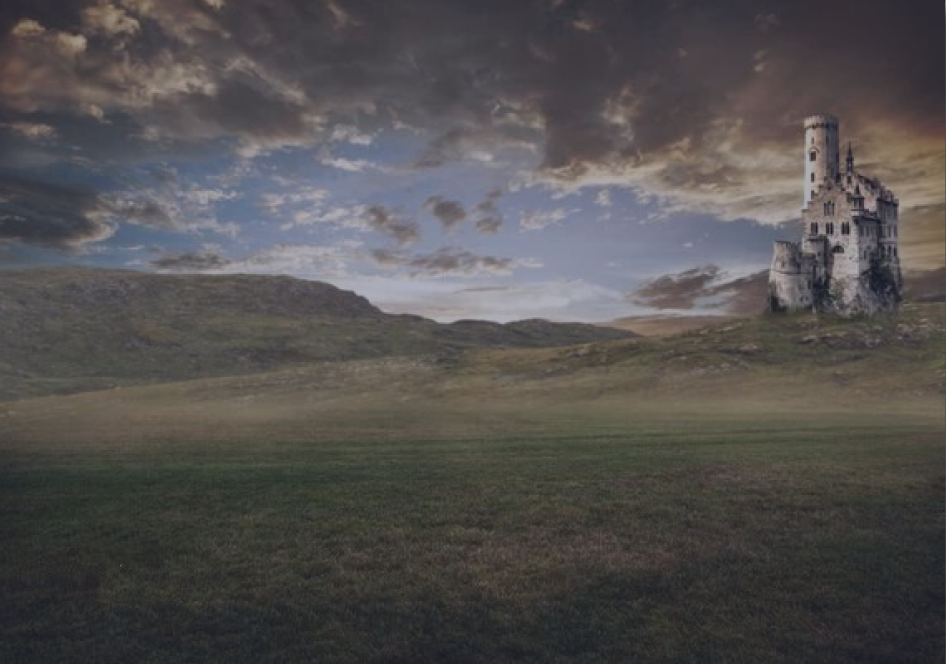
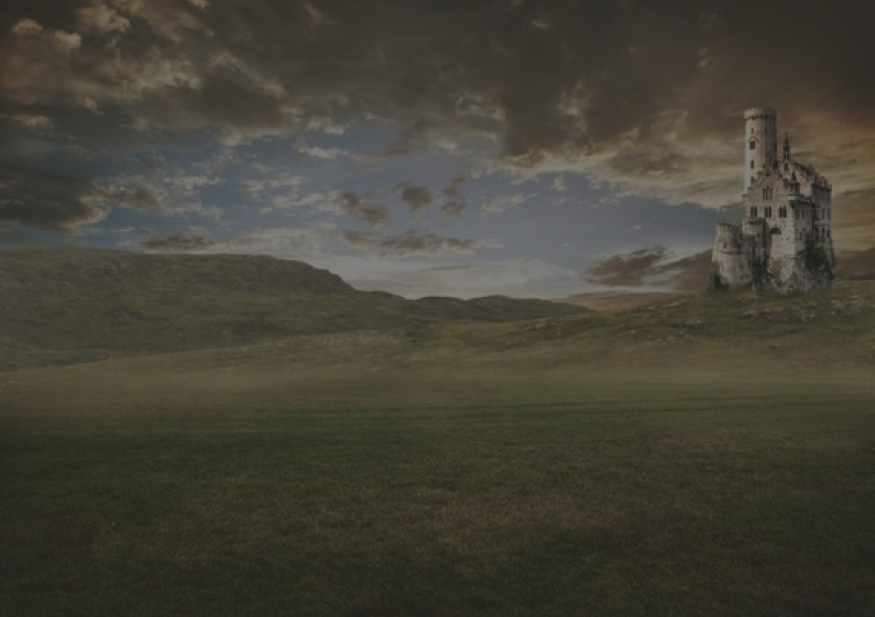
:lipstick: style : 프로필 이미지 추가 및 블러 적용

diff --git a/frontend/src/components/memberPage/UpdateMemInfo.js b/frontend/src/components/memberPage/UpdateMemInfo.js
@@ -4,12 +4,38 @@ import { useSelector } from 'react-redux'
 import { useDispatch } from 'react-redux'
 import { changeImage, deleteMemberInfo, fetchMemberInfo, patchMemberInfo } from '../../_slice/memberInfoSlice'
 
-import { memberImg } from '../../_css/MypageCSSProperties'
-import { Button, Grid } from "@mui/material";
+import { btnLeft, btnRight, memberImg } from '../../_css/MypageCSSProperties'
+import styled from 'styled-components';
+import { Button, Grid, Typography } from "@mui/material";
 import { Avatar } from "@mui/material";
 import { Box, Stack } from "@mui/system";
 import TextField from '@mui/material/TextField';
+import p1 from '../../_assets/mypage/profile/p1.png'
+import p2 from '../../_assets/mypage/profile/p2.png'
+import p3 from '../../_assets/mypage/profile/p3.png'
+import p4 from '../../_assets/mypage/profile/p4.png'
+import p5 from '../../_assets/mypage/profile/p5.png'
+import p6 from '../../_assets/mypage/profile/p6.png'
+import p7 from '../../_assets/mypage/profile/p7.png'
+import p8 from '../../_assets/mypage/profile/p8.png'
+import p9 from '../../_assets/mypage/profile/p9.png'
+import p10 from '../../_assets/mypage/profile/p10.png'
+import p11 from '../../_assets/mypage/profile/p11.png'
+import p12 from '../../_assets/mypage/profile/p12.png'
 
+// .css-j3098y-MuiAvatar-root
+const ImgStyle = styled.div`
+  .css-j3098y-MuiAvatar-root:hover {
+    background-color: #424242;
+    box-shadow: 2px 2px 30px #DCD7C9;
+    transition-duration: 0.2s;
+    cursor: pointer;
+  }
+  > a:visited {
+    color: black;
+    text-decoration: none;
+  }
+`;
 
 export default function UpdateMemInfo() {
   const memberInfo = useSelector(state => state.memberInfo.memberInfo);
@@ -50,30 +76,32 @@ export default function UpdateMemInfo() {
   }
 
   const arr = [
-    "https://picsum.photos/id/237/200/300",
-    "https://picsum.photos/id/236/200/300",
-    "https://picsum.photos/id/235/200/300",
-    "https://picsum.photos/id/234/200/300",
-    "https://picsum.photos/id/233/200/300",
-    "https://picsum.photos/id/232/200/300",
-    "https://picsum.photos/id/231/200/300",
-    "https://picsum.photos/id/230/200/300",
-    "https://picsum.photos/id/229/200/300",
-    "https://picsum.photos/id/228/200/300",
-    "https://picsum.photos/id/227/200/300",
-    "https://picsum.photos/id/238/200/300",
+    p1,
+    p2,
+    p3,
+    p6,
+    p4,
+    p5,
+    p7,
+    p8,
+    p9,
+    p10,
+    p11,
+    p12,
   ]
   return (
     <Box sx={{ flexGrow: 1 }}>
-      <Grid container sx={{ pt: 10 }} spacing={3}>
+      <Grid container sx={{ pt: 12 }} spacing={3}>
         <Grid item xs={3} >
-          <Avatar alt="profile image" src={image} sx={{ width: 250, height: 250 }} />
+          <Avatar alt="profile image" src={image} sx={{ width: 250, height: 250, bgcolor: '#000', border: "1px solid #DCD7C9", boxShadow: '2px 2px 30px #000' }} />
         </Grid>
         <Grid container item xs={9} spacing={1} >
           {arr.map((a, key) => {
             return (
               <Grid item xs={2} key={key}>
-                <Avatar alt="profile image" src={a} sx={{ width: 110, height: 110 }} onClick={(e) => { changeImg(a, e) }}></Avatar>
+                <ImgStyle>
+                  <Avatar alt="profile image" src={a} sx={{ width: 110, height: 110, boxShadow: '2px 2px 10px #424242' }} onClick={(e) => { changeImg(a, e) }}></Avatar>
+                </ImgStyle>
               </Grid>
             )
           }
@@ -81,18 +109,21 @@ export default function UpdateMemInfo() {
         </Grid>
       </Grid>
       <Grid sx={{ pt: 10, display: 'flex', alignItems: 'center', justifyContent: 'center' }}>
-        닉네임 |&nbsp;
+        <Typography sx={{ color: '#DCD7C9', fontSize: 24, }}>
+          닉네임&nbsp;&nbsp;&nbsp;|&nbsp;&nbsp;&nbsp;
+        </Typography>
         <TextField
           id="outlined-size-small"
           defaultValue={nickname}
           size="small"
           onChange={onChangeNickname}
+          sx={{ input: { color: '#424242', fontSize: 24, bgcolor: '#DCD7C9', borderRadius: 1 } }}
         />
       </Grid>
-      <Grid sx={{ pt: 10, pb: 20, display: 'flex', alignItems: 'center', justifyContent: 'center' }}>
-        <Stack spacing={5} direction="row">
-          <Button variant="outlined" onClick={updateProfile}>프로필 변경</Button>
-          <Button variant="outlined" onClick={deleteProfile}>회원탈퇴</Button>
+      <Grid sx={{ pt: 15, pb: 12, display: 'flex', alignItems: 'center', justifyContent: 'center' }}>
+        <Stack spacing={10} direction="row">
+          <Button sx={btnLeft} variant="outlined" onClick={updateProfile}>프로필 변경</Button>
+          <Button sx={btnRight} variant="outlined" onClick={deleteProfile}>회원탈퇴</Button>
         </Stack>
       </Grid>
     </Box>

diff --git a/frontend/src/components/lobby/GameList.js b/frontend/src/components/lobby/GameList.js
@@ -14,6 +14,7 @@ import ArrowForwardIcon from '@mui/icons-material/ArrowForward';
 const RoomStyle = styled.div`
   .css-1r4fj62-MuiPaper-root-MuiCard-root:hover {
     color: #424242 !important;
+    background-color: #E9E9E9;
     box-shadow: 2px 2px 25px #424242;
     transition-duration: 0.2s;
   }
@@ -113,8 +114,8 @@ export default function GameList() {
     bgcolor: '#4F585B',
     border: '0px solid #424242',
     '&:hover': {
-      color: '#4F585B',
-      bgcolor: '#fff',
+      color: '#fff',
+      bgcolor: '#424242',
       border: '0.5px solid #4F585B',
     }
   }
@@ -149,11 +150,11 @@ export default function GameList() {
                       }>
                       </CardHeader>
                       <CardContent>
-                        <Typography sx={{ fontSize: 22 }} color={'#4F585B'}>
+                        <Typography sx={{ fontSize: 22, fontWeight: 'bold' }} color={'#4F585B'}>
                           {game.title}
                         </Typography>
                       </CardContent>
-                      <CardActions sx={{ pt: 9, pr: 3, display: 'flex', justifyContent: 'end' }}>
+                      <CardActions sx={{ pt: 7.5, pr: 3, display: 'flex', justifyContent: 'end' }}>
                         <Typography sx={{ pr: 1 }}>
                           {game.currentMembers}/{game.maxMember}
                         </Typography>
@@ -182,7 +183,7 @@ export default function GameList() {
                           {game.title}
                         </Typography>
                       </CardContent>
-                      <CardActions sx={{ pt: 9, pr: 3, display: 'flex', justifyContent: 'end' }}>
+                      <CardActions sx={{ pt: 7.5, pr: 3, display: 'flex', justifyContent: 'end' }}>
                         <Typography sx={{ pr: 1 }}>
                           {game.currentMembers}/{game.maxMember}
                         </Typography>

diff --git a/frontend/src/components/rank/RankTable.js b/frontend/src/components/rank/RankTable.js
@@ -47,10 +47,10 @@ export default function RankTable() {
           autoHeight={true}
           />
       </Paper> */}
-      <TableContainer sx={{mt:2}}>
+      <TableContainer sx={{ mt: 2, borderRadius: 1, boxShadow: '1px 1px 10px 5px #424242' }}>
         <Table aria-label="simple table">
           <TableHead>
-            <TableRow sx={{bgcolor: '#fff', opacity: 0.6}}>
+            <TableRow sx={{ bgcolor: '#fff', opacity: 0.6 }}>
               <TableCell align="left" sx={{ ...headerT, pl: 3.5 }} style={{ width: 210 }}>랭킹</TableCell>
               <TableCell align="left" sx={{ ...headerT, display: 'flex', alignItems: 'center', justifyContent: 'center' }}>닉네임</TableCell>
               <TableCell align="center" style={{ ...headerT, width: 210 }}>점수</TableCell>
@@ -61,7 +61,7 @@ export default function RankTable() {
               ? rankRows.slice(page * rowsPerPage, page * rowsPerPage + rowsPerPage)
               : rankRows
             ).map((row, i) => (
-              <TableRow key={i} sx={{bgcolor: '#424242', opacity: 0.7}}>
+              <TableRow key={i} sx={{ bgcolor: '#424242', opacity: 0.7 }}>
                 <TableCell align="left" sx={{ ...dataStyle, pl: 5 }}>{row.ranking}</TableCell>
                 <TableCell align="center" sx={{ ...dataNameStyle, display: 'flex', alignItems: 'center', justifyContent: 'center' }}>
                   <ListItem sx={{ pl: 30 }}>
@@ -78,7 +78,7 @@ export default function RankTable() {
             ))}
           </TableBody>
           <TableFooter>
-            <TableRow sx={{bgcolor:'#fff', opacity: 0.6}}>
+            <TableRow sx={{ bgcolor: '#fff', opacity: 0.6 }}>
               <TablePagination
                 count={rankRows.length}
                 page={page}

diff --git a/frontend/src/_css/MypageCSSProperties.js b/frontend/src/_css/MypageCSSProperties.js
@@ -19,6 +19,7 @@ const formMem = {
 }
 
 const btnModify = {
+    fontSize: 16,
     fontWeight: 'bold',
     color: '#000',
     '&:hover': {
@@ -30,7 +31,7 @@ const btnModify = {
 const cardMem = {
     backgroundColor: '#fff',
     // opacity: 0.8,
-    boxShadow: '1px 1px 5px #424242',
+    boxShadow: '1px 1px 20px #DCD7C9',
 }
 
 const textResult = {
@@ -44,4 +45,32 @@ const textMaxMem = {
     color: '#424242'
 }
 
-export { imgMypage, memberImg, formMem, btnModify, cardMem, textResult, textMaxMem }
+const btnLeft = {
+    width: 140,
+    fontSize: 18,
+    fontWeight: 'bold',
+    color: '#424242',
+    bgcolor: '#DCD7C9',
+    border: '1px solid #DCD7C9',
+    '&:hover': {
+        color: '#424242',
+        bgcolor: '#D2CCBB',
+        border: '1px solid #D2CCBB',
+    }
+}
+
+const btnRight = {
+    width: 140,
+    fontSize: 18,
+    fontWeight: 'bold',
+    color: '#DCD7C9',
+    bgcolor: 'red',
+    border: '1px solid red',
+    '&:hover': {
+        color: '#E2D6B5',
+        bgcolor: '#B50000',
+        border: '1px solid #B50000',
+    }
+}
+
+export { imgMypage, memberImg, formMem, btnModify, cardMem, textResult, textMaxMem, btnLeft, btnRight }

diff --git a/frontend/src/components/memberPage/CurrentRecord.js b/frontend/src/components/memberPage/CurrentRecord.js
@@ -33,7 +33,7 @@ export default function CurrentRecord() {
             <Grid item sx={{ pt: 6 }} key={key} capac={capac}>
               {
                 recordInfoDesc.result === 'WIN' ?
-                  <Card sx={{ backgroundColor: '#7487CB', opacity: 0.8 }}>
+                  <Card sx={{ backgroundColor: '#7487CB', opacity: 0.8, boxShadow: '2px 2px 10px #7487CB' }}>
                     <Grid container alignItems="center">
                       <Grid item sx={{ pl: 3, pr: 5 }}>
                         <Typography sx={textResult}>
@@ -57,7 +57,7 @@ export default function CurrentRecord() {
                     </Grid>
                   </Card>
                   :
-                  <Card sx={{ backgroundColor: '#CB7474', opacity: 0.8 }}>
+                  <Card sx={{ backgroundColor: '#CB7474', opacity: 0.8, boxShadow: '2px 2px 10px #CB7474' }}>
                     <Grid container alignItems="center">
                       <Grid item sx={{ pl: 3, pr: 5 }}>
                         <Typography sx={textResult}>

diff --git a/frontend/src/pages/MemberPage.js b/frontend/src/pages/MemberPage.js
@@ -29,19 +29,26 @@ export default function MemberPage() {
     )
   }
   return (
-    <div className={styled.imgMypage}>
-      <Container fixed>
-        {!clickUpdate
+    <>
+      {
+        !clickUpdate
           ?
-          <Grid sx={{ pb: 1 }}>
-            <MemberInfoForm updateProfile={updateProfile} />
+          <div className={styled.imgMypage}>
+            <Container fixed>
+              <Grid sx={{ pb: 1 }}>
+                <MemberInfoForm updateProfile={updateProfile} />
 
-            <CurrentRecord />
-          </Grid>
+                <CurrentRecord />
+              </Grid>
+            </Container>
+          </div>
           :
-          <UpdateMemInfo />
-        }
-      </Container>
-    </div>
+          <div className={styled.imgModi}>
+            <Container fixed>
+              <UpdateMemInfo />
+            </Container>
+          </div>
+      }
+    </>
   );
 }

diff --git a/frontend/src/components/memberPage/MemberInfoForm.js b/frontend/src/components/memberPage/MemberInfoForm.js
@@ -23,13 +23,13 @@ export default function MemberInfoForm({ updateProfile }) {
         <Avatar
           alt="Remy Sharp"
           src={memberInfo.image}
-          sx={{ width: 250, height: 250, memberImg }}
-          style={{ border: "2px solid #DCD7C9" }}
+          sx={{ width: 250, height: 250, bgcolor: '#000', memberImg }}
+          style={{ border: "1px solid #DCD7C9", boxShadow: '2px 2px 10px #424242' }}
         >
         </Avatar>
       </Grid>
       <Grid item xs={7}>
-        <Card sx={{ ...cardMem, pt: 3, pb: 3, pl: 22, ml: '-150px' }}>
+        <Card sx={{ ...cardMem, pt: 4, pb: 3, pl: 22, ml: '-150px' }}>
           <Grid container direction="column" spacing={2}>
             <Grid item sx={formMem}>
               닉네임: {memberInfo.nickname}

diff --git a/frontend/src/components/main/MainBtn.js b/frontend/src/components/main/MainBtn.js
@@ -40,7 +40,7 @@ export default function MainBtn() {
                 //   opacity: [0.9, 0.8, 0.7],
                 // },
             }}>
-                <Box sx={{ bgcolor: '#fff', opacity: 0.7, height: 647, display: 'flex', justifyContent: 'center' }}>
+                <Box sx={{ bgcolor: '#fff', opacity: 0.7, height: 647, display: 'flex', justifyContent: 'center', boxShadow: '2px 2px 2px 10px #fff' }}>
                     <Grid>
                         <Avatar src={fullLogo} sx={{ pb: 3, height: 400, width: 'auto' }}></Avatar>
                         <MainButton>

diff --git a/frontend/src/components/info/Info.js b/frontend/src/components/info/Info.js
@@ -10,7 +10,7 @@ export default function Info() {
             <Box sx={{
                 pt: 10,
             }}>
-                <Box sx={{ bgcolor: '#fff', opacity: 0.7, height: 1000, display: 'flex', justifyContent: 'center' }}>
+                <Box sx={{ bgcolor: '#fff', opacity: 0.7, height: 1000, display: 'flex', justifyContent: 'center', boxShadow: '2px 2px 2px 10px #fff' }}>
                     <Avatar src={infoLogo} sx={{ pt: 5, width: 'auto', height: 150 }} variant="square"></Avatar>
                 </Box>
             </Box>

diff --git a/frontend/src/commons/modal/RoomInfoModal.js b/frontend/src/commons/modal/RoomInfoModal.js
@@ -113,7 +113,7 @@ export default function RoomSetting(props) {
 			// onClose={props.onClose}
 			aria-labelledby="modal-modal-title"
 			aria-describedby="modal-modal-description"
-			sx={{ background: 'rgba(0, 0, 0, 0.7)' }}
+			sx={{ background: 'rgba(0, 0, 0, 0.5)' }}
 		>
 			<Box sx={{ ...modalStyle, backgroundImage: `url(${modalBackground})`, backgroundSize: 'cover' }}>
 				<Box id="modal-modal-title">

diff --git a/frontend/src/_css/Mypage.module.css b/frontend/src/_css/Mypage.module.css
@@ -4,6 +4,12 @@
     background-repeat: no-repeat;
     background-size: cover;
     background-attachment: fixed;
-    /* width: 100vw; */
-    /* height: 100vh; */
+}
+.imgModi{
+    background-image: url("../_assets/mypage/mypage.png");
+    background-position: center;
+    background-repeat: no-repeat;
+    background-size: cover;
+    background-attachment: fixed;
+    height: 100vh;
 }

diff --git a/frontend/src/components/lobby/SearchBar.js b/frontend/src/components/lobby/SearchBar.js
@@ -70,11 +70,11 @@ export default function SearchBar() {
     fontSize: 17,
     fontWeight: 'bold',
     color: '#4F585B',
-    bgcolor: '#fff',
+    bgcolor: '#E9E9E9',
     border: '0.5px solid #4F585B',
     '&:hover': {
-      color: '#fff',
-      bgcolor: '#4F585B',
+      color: '#424242',
+      bgcolor: '#DEDEDE',
       border: '0px solid #DCD7C9',
     }
   }
